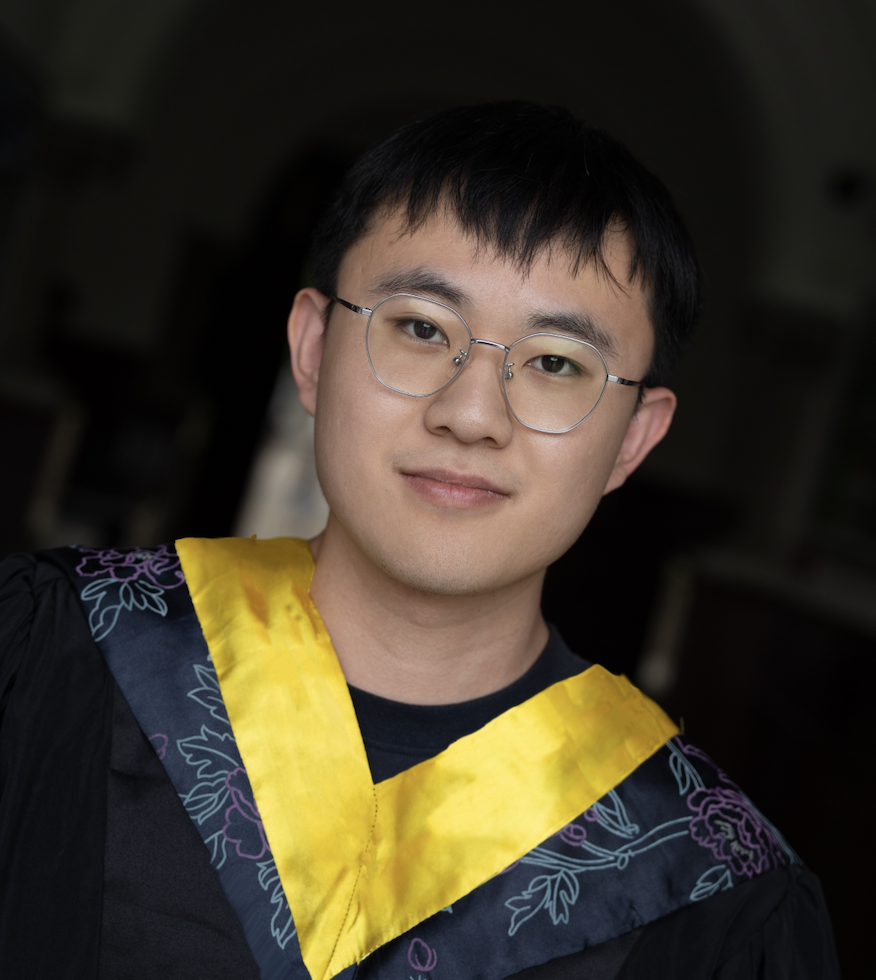
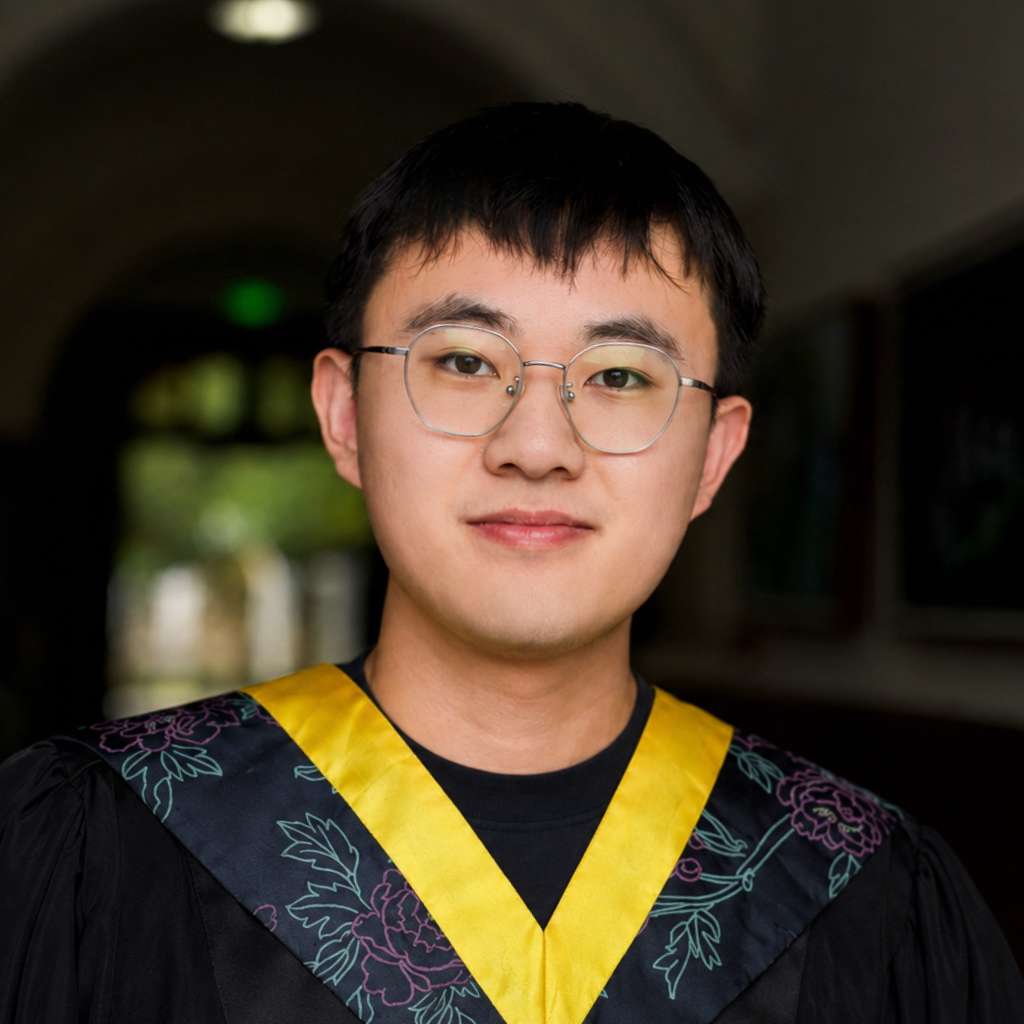
update

diff --git a/assets/css/main.scss b/assets/css/main.scss
@@ -107,3 +107,79 @@ h1:before, .anchor:before {
     background-color: #00369f;
     font-size: .8em;
 }
+
+/* Inline org/affiliation logo, sized to sit on the text baseline */
+.inline-logo {
+    height: 1.1em;
+    width: auto;
+    vertical-align: -0.2em;
+    margin: 0 .1em;
+}
+
+/* Sidebar link icon supplied as an image (no Font Awesome glyph available).
+   Width matches fa-fw's 1.25em so labels stay aligned with the other links. */
+.sidebar-logo {
+    display: inline-block;
+    width: 1.25em;
+    height: 1em;
+    object-fit: contain;
+    vertical-align: -0.15em;
+    text-align: center;
+}
+
+/* Selected / All publications tabs (CSS-only, driven by hidden radios) */.pub-tabs {
+    > input[type="radio"] {
+        position: absolute;
+        opacity: 0;
+        pointer-events: none;
+    }
+
+    .pub-tabs-nav {
+        display: flex;
+        gap: .25em;
+        border-bottom: 1px solid $border-color;
+        margin-bottom: 1.5em;
+
+        label {
+            cursor: pointer;
+            padding: .4em .9em;
+            margin-bottom: -1px;
+            border: 1px solid transparent;
+            border-bottom: 2px solid transparent;
+            color: $gray;
+            font-size: $type-size-6;
+            font-weight: bold;
+            white-space: nowrap;
+
+            &:hover {
+                color: $link-color-hover;
+            }
+        }
+    }
+
+    .pub-panel {
+        display: none;
+
+        > :first-child {
+            margin-top: 0;
+        }
+    }
+
+    #pub-tab-selected:checked ~ .pub-tabs-nav label[for="pub-tab-selected"],
+    #pub-tab-all:checked ~ .pub-tabs-nav label[for="pub-tab-all"] {
+        color: $link-color;
+        border-bottom-color: $link-color;
+    }
+
+    #pub-tab-selected:checked ~ .pub-panel-selected,
+    #pub-tab-all:checked ~ .pub-panel-all {
+        display: block;
+    }
+
+    /* keyboard focus ring, since the radios themselves are invisible */
+    #pub-tab-selected:focus-visible ~ .pub-tabs-nav label[for="pub-tab-selected"],
+    #pub-tab-all:focus-visible ~ .pub-tabs-nav label[for="pub-tab-all"] {
+        outline: 2px solid $link-color;
+        outline-offset: 2px;
+    }
+}

diff --git a/_includes/author-profile.html b/_includes/author-profile.html
@@ -118,6 +118,9 @@
       {% if author.wikipedia %}
         <li><a href="https://en.wikipedia.org/wiki/User:{{ author.wikipedia }}"><i class="fab fa-fw fa-wikipedia-w" aria-hidden="true"></i> Wikipedia</a></li>
 {% endif %}
+      {% if author.alphaxiv %}
+        <li><a href="{{ author.alphaxiv }}"><img src="images/alphaxiv-logo.png" class="sidebar-logo" alt="" aria-hidden="true"> alphaXiv</a></li>
+      {% endif %}
     </ul>
       <div class="author__urls_sm">
       {% if author.uri %}
@@ -212,6 +215,9 @@
       {% endif %}
       {% if author.wikipedia %}
         <a href="https://en.wikipedia.org/wiki/User:{{ author.wikipedia }}"><i class="fab fa-fw fa-wikipedia-w" aria-hidden="true"></i></a>
+      {% endif %}
+      {% if author.alphaxiv %}
+        <a href="{{ author.alphaxiv }}"><img src="images/alphaxiv-logo.png" class="sidebar-logo" alt="alphaXiv"></a>
       {% endif %}
     </div>
   </div>

diff --git a/_pages/about.md b/_pages/about.md
@@ -17,7 +17,7 @@ redirect_from:
 
 <span class='anchor' id='about-me'></span>
 
-I'm **Zhen Huang ("黄臻" in Chinese)**, a first-year Ph.D. student at Fudan University, under the supervision of [Pengfei Liu](http://pfliu.com/) (primary advisor, affiliated with [GAIR Lab](https://plms.ai/) @ SJTU) and [Xipeng Qiu](https://xpqiu.github.io/) (affiliated with [FudanNLP](https://nlp.fudan.edu.cn/) @ FDU). I received my Bachelor's degree from the [School of Computer Science and Technology at Soochow University](https://scst.suda.edu.cn/), where I spent four wonderful and fantastic years.
+I'm **Zhen Huang ("黄臻" in Chinese)**, a first-year Ph.D. student at Fudan University, under the supervision of [Pengfei Liu](https://plms.ai/) (affiliated with [GAIR Lab](https://plms.ai/) @ SJTU). My current research interest is **long-horizon agents**. Previously, I also focused on **data-centric AI**, in particular curating high-quality data in a more automated way across  various stages of pre-training, mid-training and post-training. I'm currently an intern at the <img src="images/hunyuan-logo.png" alt="Hunyuan" class="inline-logo"> **Hunyuan LLM Agent Team, Tencent**.
 
 
 # 🔥 News
@@ -29,7 +29,17 @@ I'm **Zhen Huang ("黄臻" in Chinese)**, a first-year Ph.D. student at Fudan Un
 - *2024.09*: &nbsp;🎉🎉 One paper accepted by NeurIPS 2024 on LLM&LMM evaluation - "OlympicArena: Benchmarking Multi-discipline Cognitive Reasoning for Superintelligent AI".
 
 
-# 📝 Publications (Selected)
+# 📝 Publications
+
+<div class="pub-tabs">
+<input type="radio" name="pub-tab" id="pub-tab-selected" checked>
+<input type="radio" name="pub-tab" id="pub-tab-all">
+<div class="pub-tabs-nav">
+<label for="pub-tab-selected">Selected</label>
+<label for="pub-tab-all">All Publications</label>
+</div>
+
+<div class="pub-panel pub-panel-selected" markdown="1">
 
 ( * : equal contribution,   † :  corresponding author )
 
@@ -59,6 +69,60 @@ I'm **Zhen Huang ("黄臻" in Chinese)**, a first-year Ph.D. student at Fudan Un
   ***NeurIPS 2024***
   
   [[Paper](https://arxiv.org/pdf/2406.12753)][[Code](https://github.com/GAIR-NLP/OlympicArena)][[Homepage](https://gair-nlp.github.io/OlympicArena/)][[🤗 Datasets](https://huggingface.co/datasets/GAIR/OlympicArena)][ [🤗 Competition](https://huggingface.co/spaces/GAIR/OlympicArenaSubmission)][[Featured by AK](https://x.com/_akhaliq/status/1803265217826107588)][[机器之心](https://mp.weixin.qq.com/s/M16i34Vejq9DruMvfYsOtA)][[量子位](https://mp.weixin.qq.com/s/bhm84ToAsFc1GrjWbqJMYg)]
+
+</div>
+
+<div class="pub-panel pub-panel-all" markdown="1">
+
+( * : equal contribution,   † :  corresponding author )
+
+- **daVinci-Dev: Agent-native Mid-training for Software Engineering**
+  
+  Ji Zeng, Dayuan Fu, Tiantian Mi, Yumin Zhuang, Yaxing Huang, Xuefeng Li, Lyumanshan Ye, Muhang Xie, Qishuo Hua, **Zhen Huang**, Mohan Jiang, Hanning Wang, Jifan Lin, Yang Xiao, Jie Sun, Yunze Wu, Pengfei Liu†
+  
+  ***ICML 2026 (Oral)***
+  
+  [[Paper](https://arxiv.org/pdf/2601.18418)][[Code](https://github.com/GAIR-NLP/daVinci-Dev)][[🤗 Dataset](https://huggingface.co/datasets/GAIR/daVinci-Dev)][[🤗 Model (32B)](https://huggingface.co/GAIR/daVinci-Dev-32B)][[🤗 Model (72B)](https://huggingface.co/GAIR/daVinci-Dev-72B)]
+
+
+- **Unlocking the Value of Scientific Data for Pre-training**
+  
+  Yiwei Qin\*, **Zhen Huang**\*, Tiantian Mi\*, Weiye Si, Qipeng Guo, Siyuan Feng, Pengfei Liu†
+  
+  ***ACL 2026 (main)***
+  
+  [[Paper](https://arxiv.org/pdf/2602.07824)][[Code](https://github.com/GAIR-NLP/Data-Darwinism)][[🤗 Dataset](https://huggingface.co/datasets/GAIR/Darwin-Science)][[🤗 Model (3B)](https://huggingface.co/GAIR/daVinci-origin-3B)][[🤗 Model (7B)](https://huggingface.co/GAIR/daVinci-origin-7B)][[🤗 Benchmark](https://huggingface.co/datasets/GAIR/Darwin-Science-Eval)]
+
+
+- **InnovatorBench: Evaluating Agents' Ability to Conduct Innovative LLM Research**
+  
+  Yunze Wu, Dayuan Fu, Weiye Si, **Zhen Huang**, Mohan Jiang, Keyu Li, Shijie Xia, Jie Sun, Tianze Xu, Xiangkun Hu, Pengrui Lu, Xiaojie Cai, Lyumanshan Ye, Wenhong Zhu, Yang Xiao, Pengfei Liu†
+  
+  ***ICLR 2026***
+  
+  [[Paper](https://arxiv.org/pdf/2510.27598)][[Code](https://github.com/GAIR-NLP/InnovatorBench)][[🤗 Dataset](https://huggingface.co/datasets/GAIR/InnovatorBench)][[OpenReview](https://openreview.net/forum?id=w8rZ2Jd6Jo)]
+
+
+- **LIMO: Less is More for Reasoning**
+  
+  Yixin Ye\*, **Zhen Huang**\*, Yang Xiao, Ethan Chern, Shijie Xia, Pengfei Liu†
+  
+  ***COLM 2025***
+  
+  [[Paper](https://arxiv.org/pdf/2502.03387)][[Code](https://github.com/GAIR-NLP/LIMO)][[Model](https://huggingface.co/GAIR/LIMO)][[🤗 Datasets](https://huggingface.co/datasets/GAIR/LIMO)][[Featured by AK](https://x.com/_akhaliq/status/1887372529112686810)][[机器之心](https://mp.weixin.qq.com/s/c62TWyepruRYf_1xHFKw4g)][[Talk (Chinese)](https://www.bilibili.com/video/BV1y3PeeMEmq/?share_source=copy_web&vd_source=18acb84f1f430e0cde1dfee88e7b1879)]
+
+
+- **OlympicArena: Benchmarking Multi-discipline Cognitive Reasoning for Superintelligent AI**
+  
+  **Zhen Huang**, Zengzhi Wang, Shijie Xia, Xuefeng Li, Haoyang Zou, Ruijie Xu, Run-Ze Fan, Lyumanshan Ye, Ethan Chern, Yixin Ye, Yikai Zhang, Yuqing Yang, Ting Wu, Binjie Wang, Shichao Sun, Yang Xiao, Yiyuan Li, Fan Zhou, Steffi Chern, Yiwei Qin, Yan Ma, Jiadi Su, Yixiu Liu, Yuxiang Zheng, Shaoting Zhang†, Dahua Lin†, Yu Qiao†, Pengfei Liu†
+  
+  ***NeurIPS 2024***
+  
+  [[Paper](https://arxiv.org/pdf/2406.12753)][[Code](https://github.com/GAIR-NLP/OlympicArena)][[Homepage](https://gair-nlp.github.io/OlympicArena/)][[🤗 Datasets](https://huggingface.co/datasets/GAIR/OlympicArena)][ [🤗 Competition](https://huggingface.co/spaces/GAIR/OlympicArenaSubmission)][[Featured by AK](https://x.com/_akhaliq/status/1803265217826107588)][[机器之心](https://mp.weixin.qq.com/s/M16i34Vejq9DruMvfYsOtA)][[量子位](https://mp.weixin.qq.com/s/bhm84ToAsFc1GrjWbqJMYg)]
+
+</div>
+</div>
+
 
 
 # 📖 Educations
